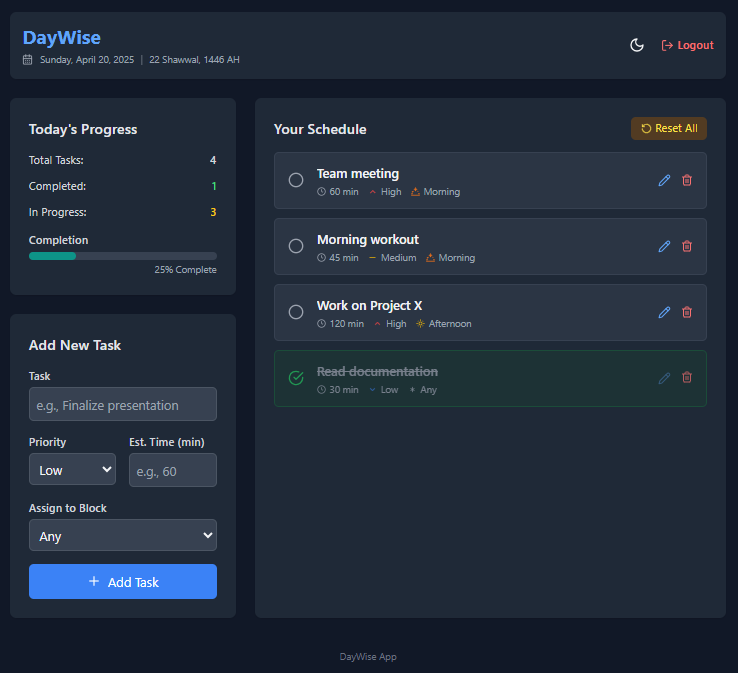
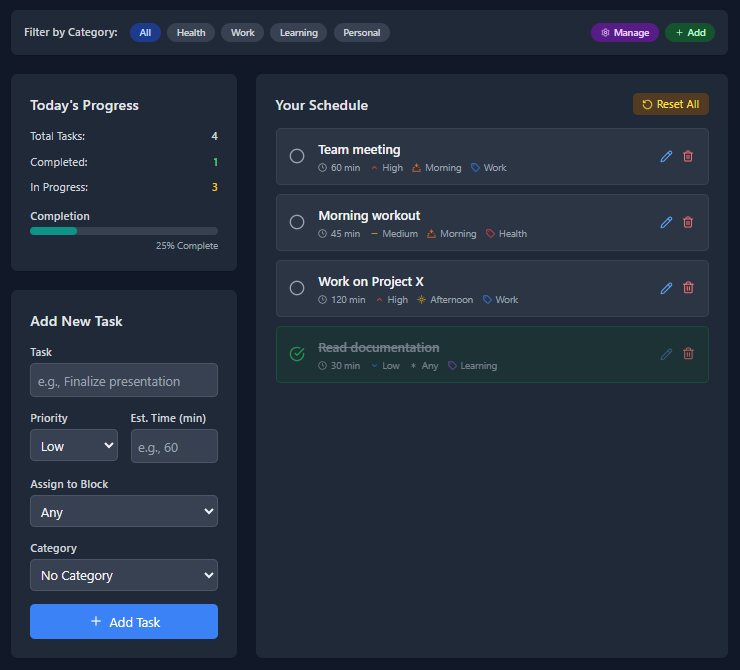
refactor(dashboard): improve category management modal interactions
- Replaced individual edit button listeners with a delegated event listener to ensure all edit buttons work correctly
- Added a separate form for delete action to simplify form handling
- Introduced a manage categories modal for better user experience
- Improved button styling and layout for consistency

diff --git a/templates/dashboard.html b/templates/dashboard.html
@@ -52,30 +52,78 @@
             document.getElementById('category-modal').classList.add('hidden');
         });
         
-        // Show edit category modal
-        const editCategoryButtons = document.querySelectorAll('.edit-category-btn');
-        editCategoryButtons.forEach(button => {
-            button.addEventListener('click', function() {
-                const categoryId = this.dataset.categoryId;
-                const categoryName = this.dataset.categoryName;
-                const categoryColor = this.dataset.categoryColor;
+        // Show manage categories modal
+        document.getElementById('manage-categories-btn').addEventListener('click', function() {
+            document.getElementById('manage-categories-modal').classList.remove('hidden');
+        });
+        
+        // Hide manage categories modal
+        document.getElementById('close-manage-categories-modal').addEventListener('click', function() {
+            document.getElementById('manage-categories-modal').classList.add('hidden');
+        });
+        
+        // Add category from manage categories modal
+        document.getElementById('add-category-from-manage').addEventListener('click', function() {
+            document.getElementById('manage-categories-modal').classList.add('hidden');
+            document.getElementById('category-modal').classList.remove('hidden');
+        });
+        
+        // Show edit category modal - Fix to ensure all edit buttons work
+        document.addEventListener('click', function(event) {
+            if (event.target.closest('.edit-category-btn')) {
+                const button = event.target.closest('.edit-category-btn');
+                const categoryId = button.dataset.categoryId;
+                const categoryName = button.dataset.categoryName;
+                const categoryColor = button.dataset.categoryColor;
                 
-                document.getElementById('edit-category-id').value = categoryId;
-                document.getElementById('edit-category-name').value = categoryName;
-                document.getElementById('edit-category-color').value = categoryColor;
+                const editCategoryModal = document.getElementById('edit-category-modal');
                 
-                // Update delete form action and hidden input
-                document.getElementById('delete-category-id').value = categoryId;
-                // Fix: Use a form action that doesn't require URL parameters
-                document.getElementById('delete-category-form').action = "{{ url_for('delete_category', category_id=0) }}".replace('0', categoryId);
-                
-                document.getElementById('edit-category-modal').classList.remove('hidden');
-            });
+                // Check if the edit category modal exists
+                if (editCategoryModal) {
+                    // Set form values
+                    document.getElementById('edit-category-id').value = categoryId;
+                    document.getElementById('edit-category-name').value = categoryName;
+                    document.getElementById('edit-category-color').value = categoryColor;
+                    
+                    // Update delete form action and hidden input
+                    document.getElementById('delete-category-id').value = categoryId;
+                    
+                    // Check if delete form exists before setting its action
+                    const deleteForm = document.getElementById('delete-category-form');
+                    if (deleteForm) {
+                        deleteForm.action = "{{ url_for('delete_category', category_id=0) }}".replace('0', categoryId);
+                    }
+                    
+                    // Check if edit form exists before setting its action
+                    const editForm = document.getElementById('edit-category-form');
+                    if (editForm) {
+                        editForm.action = "{{ url_for('edit_category', category_id=0) }}".replace('0', categoryId);
+                    }
+                    
+                    // Show edit modal
+                    editCategoryModal.classList.remove('hidden');
+                    
+                    // If opened from manage categories modal, close it
+                    const manageCategoriesModal = document.getElementById('manage-categories-modal');
+                    if (manageCategoriesModal) {
+                        manageCategoriesModal.classList.add('hidden');
+                    }
+                } else {
+                    console.error('Edit category modal not found in the DOM');
+                }
+            }
         });
         
         // Hide edit category modal
         document.getElementById('close-edit-category-modal').addEventListener('click', function() {
             document.getElementById('edit-category-modal').classList.add('hidden');
+        });
+        
+        // Handle delete category button click
+        document.getElementById('delete-category-btn').addEventListener('click', function() {
+            if (confirm('Are you sure you want to delete this category? Tasks with this category will be updated to have no category.')) {
+                document.getElementById('delete-category-form').submit();
+            }
         });
     });
 </script>
@@ -146,13 +194,22 @@
             {{ category.name }}
         </a>
     {% endfor %}
-    <button id="add-category-btn" class="ml-auto px-3 py-1 rounded-full text-xs font-medium bg-green-100 text-green-800 dark:bg-green-900 dark:text-green-200 hover:bg-green-200 dark:hover:bg-green-800 transition flex items-center gap-1">
-        <svg xmlns="http://www.w3.org/2000/svg" width="12" height="12" viewBox="0 0 24 24" fill="none" stroke="currentColor" stroke-width="2" stroke-linecap="round" stroke-linejoin="round" class="lucide lucide-plus">
-            <path d="M5 12h14"/>
-            <path d="M12 5v14"/>
-        </svg>
-        Add Category
-    </button>
+    <div class="ml-auto flex gap-2">
+        <button id="manage-categories-btn" class="px-3 py-1 rounded-full text-xs font-medium bg-purple-100 text-purple-800 dark:bg-purple-900 dark:text-purple-200 hover:bg-purple-200 dark:hover:bg-purple-800 transition flex items-center gap-1">
+            <svg xmlns="http://www.w3.org/2000/svg" width="12" height="12" viewBox="0 0 24 24" fill="none" stroke="currentColor" stroke-width="2" stroke-linecap="round" stroke-linejoin="round" class="lucide lucide-settings">
+                <path d="M12.22 2h-.44a2 2 0 0 0-2 2v.18a2 2 0 0 1-1 1.73l-.43.25a2 2 0 0 1-2 0l-.15-.08a2 2 0 0 0-2.73.73l-.22.38a2 2 0 0 0 .73 2.73l.15.1a2 2 0 0 1 1 1.72v.51a2 2 0 0 1-1 1.74l-.15.09a2 2 0 0 0-.73 2.73l.22.38a2 2 0 0 0 2.73.73l.15-.08a2 2 0 0 1 2 0l.43.25a2 2 0 0 1 1 1.73V20a2 2 0 0 0 2 2h.44a2 2 0 0 0 2-2v-.18a2 2 0 0 1 1-1.73l.43-.25a2 2 0 0 1 2 0l.15.08a2 2 0 0 0 2.73-.73l.22-.39a2 2 0 0 0-.73-2.73l-.15-.08a2 2 0 0 1-1-1.74v-.5a2 2 0 0 1 1-1.74l.15-.09a2 2 0 0 0 .73-2.73l-.22-.38a2 2 0 0 0-2.73-.73l-.15.08a2 2 0 0 1-2 0l-.43-.25a2 2 0 0 1-1-1.73V4a2 2 0 0 0-2-2z"/>
+                <circle cx="12" cy="12" r="3"/>
+            </svg>
+            Manage
+        </button>
+        <button id="add-category-btn" class="px-3 py-1 rounded-full text-xs font-medium bg-green-100 text-green-800 dark:bg-green-900 dark:text-green-200 hover:bg-green-200 dark:hover:bg-green-800 transition flex items-center gap-1">
+            <svg xmlns="http://www.w3.org/2000/svg" width="12" height="12" viewBox="0 0 24 24" fill="none" stroke="currentColor" stroke-width="2" stroke-linecap="round" stroke-linejoin="round" class="lucide lucide-plus">
+                <path d="M5 12h14"/>
+                <path d="M12 5v14"/>
+            </svg>
+            Add
+        </button>
+    </div>
 </div>
 
 <!-- Main Content Grid (Widgets) -->
@@ -552,17 +609,19 @@
                     <option value="teal">Teal</option>
                 </select>
             </div>
-            <div class="flex justify-between">
-                <form action="{{ url_for('delete_category', category_id=0) }}" method="POST" class="inline" id="delete-category-form" onsubmit="return confirm('Are you sure you want to delete this category? Tasks with this category will be updated to have no category.');">
-                    <input type="hidden" name="category_id" id="delete-category-id">
-                    <button type="submit" class="px-3 py-1 rounded-md text-sm text-red-700 dark:text-red-300 bg-red-100 dark:bg-red-900/50 hover:bg-red-200 dark:hover:bg-red-800/50 focus:outline-none focus:ring-2 focus:ring-red-500 focus:ring-offset-1 dark:focus:ring-offset-gray-800 transition">
-                        Delete
-                    </button>
-                </form>
-                <button type="submit" class="px-4 py-2 rounded-md text-sm text-white bg-blue-600 hover:bg-blue-700 focus:outline-none focus:ring-2 focus:ring-blue-500 focus:ring-offset-1 dark:focus:ring-offset-gray-800 transition">
+            <div class="flex justify-between gap-3">
+                <button type="button" id="delete-category-btn" class="flex-1 px-4 py-2 rounded-md text-sm text-red-700 dark:text-red-300 bg-red-100 dark:bg-red-900/50 hover:bg-red-200 dark:hover:bg-red-800/50 focus:outline-none focus:ring-2 focus:ring-red-500 focus:ring-offset-1 dark:focus:ring-offset-gray-800 transition">
+                    Delete Category
+                </button>
+                <button type="submit" class="flex-1 px-4 py-2 rounded-md text-sm text-white bg-blue-600 hover:bg-blue-700 focus:outline-none focus:ring-2 focus:ring-blue-500 focus:ring-offset-1 dark:focus:ring-offset-gray-800 transition">
                     Save Changes
                 </button>
             </div>
+        </form>
+        
+        <!-- Separate form for delete action -->
+        <form action="{{ url_for('delete_category', category_id=0) }}" method="POST" class="mt-4" id="delete-category-form" onsubmit="return confirm('Are you sure you want to delete this category? Tasks with this category will be updated to have no category.');">
+            <input type="hidden" name="category_id" id="delete-category-id">
         </form>
     </div>
 </div>
@@ -591,7 +650,7 @@
                         </div>
                         <button 
                             type="button" 
-                            class="edit-category-btn text-blue-600 dark:text-blue-400 hover:text-blue-800 dark:hover:text-blue-300 p-1"
+                            class="edit-category-btn text-blue-600 dark:text-blue-400 hover:text-blue-800 dark:hover:text-blue-300 p-1 rounded-full"
                             data-category-id="{{ category.id }}"
                             data-category-name="{{ category.name }}"
                             data-category-color="{{ category.color }}"
@@ -606,7 +665,7 @@
             {% endif %}
         </div>
         <div class="mt-4 pt-3 border-t border-gray-200 dark:border-gray-700">
-            <button id="open-add-category-btn" class="w-full bg-green-500 text-white px-4 py-2 rounded-md hover:bg-green-600 dark:hover:bg-green-500 focus:outline-none focus:ring-2 focus:ring-green-500 focus:ring-offset-2 dark:focus:ring-offset-gray-800 transition flex items-center justify-center gap-2">
+            <button id="add-category-from-manage" class="w-full bg-green-500 text-white px-4 py-2 rounded-md hover:bg-green-600 dark:hover:bg-green-500 focus:outline-none focus:ring-2 focus:ring-green-500 focus:ring-offset-2 dark:focus:ring-offset-gray-800 transition flex items-center justify-center gap-2">
                 <svg xmlns="http://www.w3.org/2000/svg" width="16" height="16" viewBox="0 0 24 24" fill="none" stroke="currentColor" stroke-width="2" stroke-linecap="round" stroke-linejoin="round" class="lucide lucide-plus">
                     <path d="M5 12h14"/>
                     <path d="M12 5v14"/>
